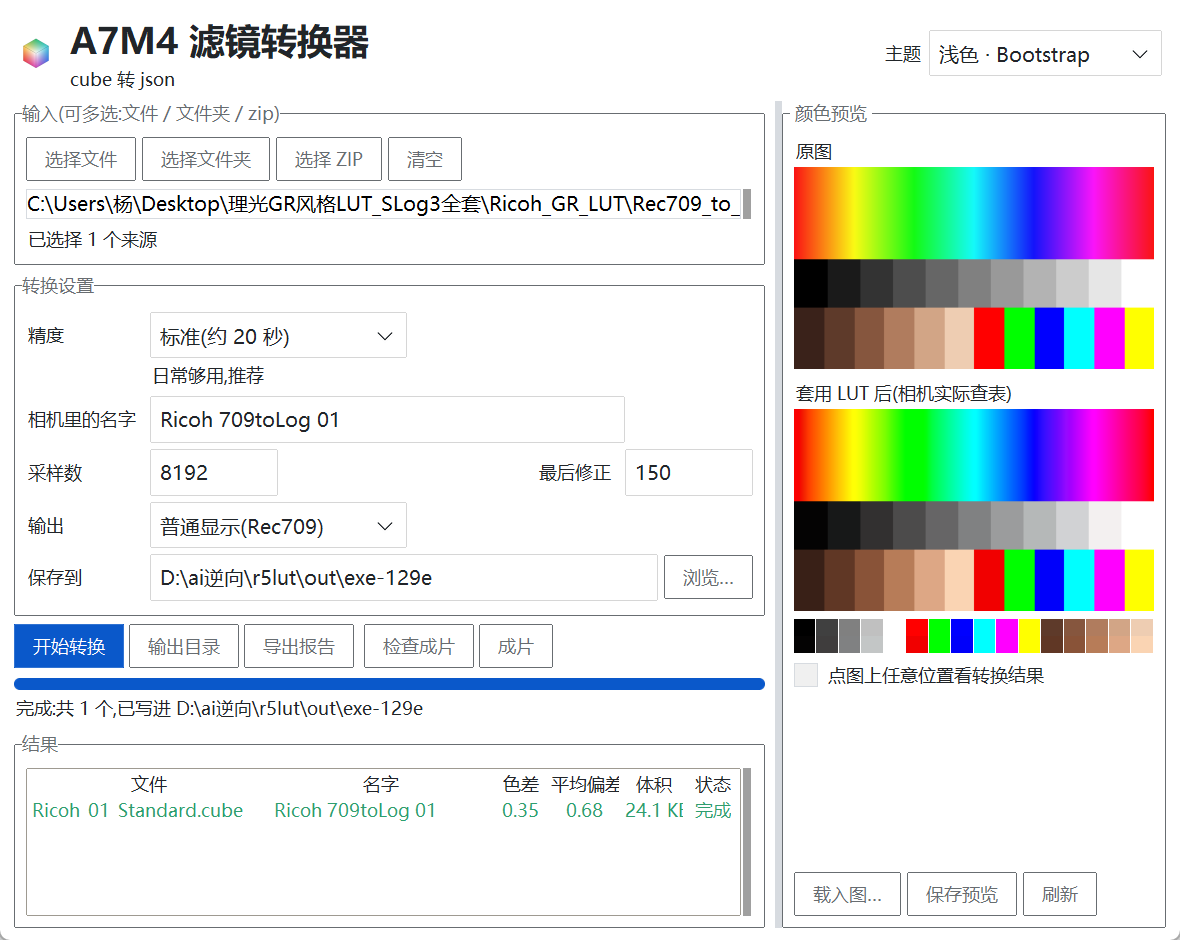
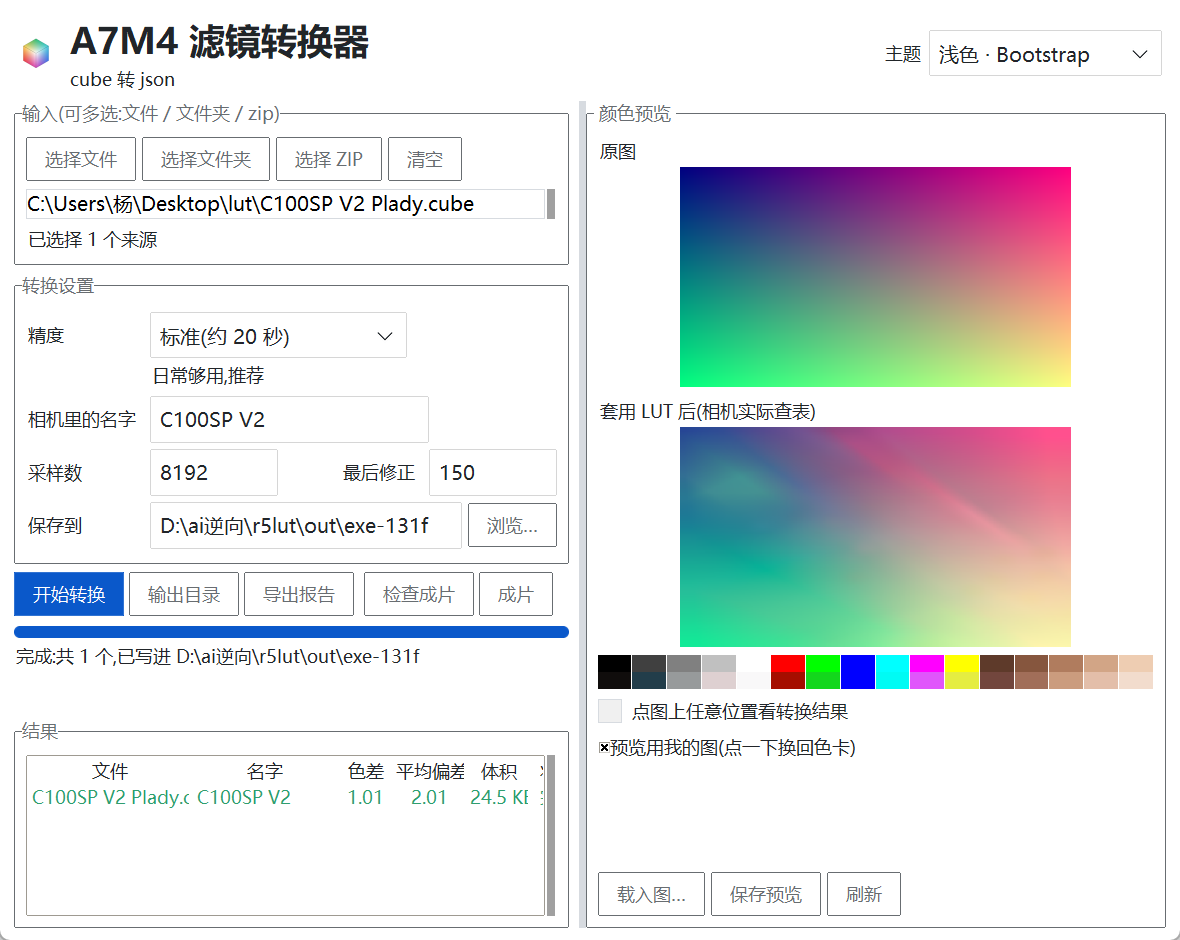
docs: 重写 README 为项目主页(快速开始/支持范围/精度/结构/致谢),补全品牌适配报告与最新界面图

Changed region(s): [[0.0, 0.0926, 0.9763, 0.9872], [0.122, 0.4319, 0.3051, 0.4628], [0.8847, 0.9255, 0.9153, 0.9564]]

diff --git a/README.md b/README.md
@@ -1,61 +1,160 @@
-# A7M4 滤镜转换器（cube → camera-look JSON）
+# A7M4 滤镜转换器
 
-把调色用的 `.cube` LUT，转成索尼 **A7M4** 机内「创意外观（camera-look）」认识的 JSON
-（`PRIVATE/M4ROOT/GENERAL/LUT/*.json`，机内 16 槽）。照片直出即可所见即所得，
-不用回到电脑上调色。
+把调色用的 `.cube` LUT 转成索尼 **A7M4** 机内「创意外观」认识的 JSON，拷进 SD 卡就能用 ——
+照片直出即是所见即所得，不用回电脑调色。
 
-> 适用范围：机内创意外观只作用在**照片 / 普通显示链路**。视频模式下的 PP 值
-> 不在这套机制里，所以它和 S-Log3 的高动态范围不兼容 —— 想要风格化就用普通模式
-> 直出（丢掉 log 的宽容度和后期空间），想要 log 就别套风格。
+[![version](https://img.shields.io/badge/版本-1.4.0-0a84ff)](https://github.com/Itinerary200/a7m4-lut/releases)
+[![license](https://img.shields.io/badge/许可-MIT-2f9e6f)](LICENSE)
+[![platform](https://img.shields.io/badge/平台-Windows%2010%2F11-555)](https://github.com/Itinerary200/a7m4-lut/releases)
+[![python](https://img.shields.io/badge/Python-3.10%2B-3776ab)](pyproject.toml)
 
 ![界面](docs/images/ui.png)
 
+---
+
+## 目录
+
+- [快速开始](#快速开始)
+- [它解决什么](#它解决什么)
+- [支持哪些 LUT](#支持哪些-lut)
+- [精度](#精度)
+- [命令行](#命令行)
+- [源码运行](#源码运行)
+- [项目结构](#项目结构)
+- [资产与许可](#资产与许可)
+- [致谢](#致谢)
+
+---
+
+## 快速开始
+
+1. 从 [Releases](https://github.com/Itinerary200/a7m4-lut/releases) 下载 `A7M4LUT.exe`，双击运行（免安装，不用装 Python）。
+2. 「选择文件」挑 `.cube`（支持多选 / 文件夹 / ZIP）；填一个相机里显示的名字；选保存位置，点 **开始转换**。
+3. 把输出文件夹里的 `PRIVATE/` 整个拷到 **SD 卡根目录**：
+
+   ```
+   SD 卡根目录/
+   └─ PRIVATE/M4ROOT/GENERAL/LUT/<名字>.json
+   ```
+
+4. 插卡 → 相机菜单里选这个外观（机内共 16 槽）。
+
+右侧「颜色预览」是 **原图 / 相机实际查表后的画面 / 色块对照**，点图上任意位置能读出
+「转换前 → 转换后」的 RGB。两栏中间的竖条可以拖动改宽，预览图会跟着放大。
+
+---
+
 ## 它解决什么
 
-A7M4 的机内外观不是 `.cube`，而是一个 `camera-look v2` 的 JSON：里面不是一张 LUT 表，
-而是 405 个整数参数（`parameters.grid`，3×5×9×9）。相机把这张网格烘焙成 129³ 的表，
-再用三线性插值出画面。所以「把 cube 塞进相机」不是格式转换，而是**反解**：
+A7M4 的机内外观不是 `.cube`，而是一个 `camera-look v2` 的 JSON —— 里面不是 LUT 表，
+而是 **405 个整数参数**（`parameters.grid`，3×5×9×9）。相机把这张网格烘焙成 129³ 的表，
+再用三线性插值出画面。
 
-> 找一组 405 个整数，让相机的烘焙 + 查表路径输出，尽量等于 cube 的结果。
+所以「把 cube 塞进相机」不是格式转换，而是**反解**：
 
-本工具就是做这个反解：用官方训练资产里冻结的响应模型（`models/`），把相机真实路径
-写成可微形式，再拟合 405 个参数。**优化目标就是相机真实的 129³ 表 + 三线性插值**，
-与官方 `bake + sample` 逐位一致（mae8 0.00）。
+> 找一组 405 个整数，让「相机的烘焙 + 查表」输出尽量等于 cube 的结果。
+
+本工具把相机这条真实路径写成可微形式，直接在冻结的官方响应模型上拟合这 405 个参数。
+优化目标就是相机真实的 129³ 表 + 三线性插值，与官方 `bake + sample` 逐位一致（mae8 0.00）。
+
+> **适用范围**：机内创意外观只作用在**照片 / 普通显示链路**。视频模式的 PP 值不在
+> 这套机制里，因此它与 S-Log3 的高动态范围不兼容 —— 想要风格化就用普通模式直出，
+> 想要 log 就别套风格。
+
+---
+
+## 支持哪些 LUT
+
+### 输入：各家 log 曲线自动适配
+
+不同品牌的 LUT 是按**自家 log 曲线**编码输入的，同一条曲线套错，画面立刻偏色。
+工具内置 16 条曲线，并会自己判断这份 LUT 属于哪一种：
+
+| 品牌 | 曲线 |
+| --- | --- |
+| 索尼 | S-Log3、S-Log2 |
+| 佳能 | Canon Log2、Canon Log3 |
+| 尼康 | N-Log |
+| 松下 | V-Log |
+| 富士 | F-Log、F-Log2、F-Log2C |
+| ARRI | LogC3、LogC4 |
+| 大疆 | D-Log、D-Log2、D-Log M |
+| 影石 | I-Log |
+| 徕卡 | L-Log |
+
+判断方式有三层，逐层兜底：
+
+1. 看文件名与 LUT 的 `TITLE` 关键词（`N-Log 转 Rec.709` 这种名字里带 Rec.709 的，
+   也能认出输入其实是 N-Log）；
+2. 从 **LUT 自身**反解曲线：灰阶从 0 走到 1，二分找「输出正好等于这个灰」的码值，
+   残差 < 0.03 就采信（尼康实测 0.0010、索尼 LC-709 0.0003、佳能 CMTPQ 0.0000）；
+3. 两条曲线各算一版，取色差更小的那版。
+
+### 输出：普通显示 / PQ / HLG 都能算对
+
+目标域是 HDR 的（佳能 CMTPQ、ARRI St2084、Insta360 HLG 等）时，按 ST.2084 与 HLG
+标准公式解码后再比对，不会被当成普通显示值算错。
+
+### 风格 LUT
+
+柯达 / 富士胶片 / 其他胶片 / 理光 GR / 哈苏 HNCS 这类纯风格 LUT 走显示域，
+无需曲线，直接拟合。黑白 LUT 会自动切到 ACROS 起点（中性起点拟不出整块去色）。
+
+---
 
 ## 精度
 
-| 组 | 数量 | ΔE00 中位 | 最好 | 最差 |
-|---|---|---|---|---|
-| 彩色 look（输出普通显示） | 71 | **1.32** | 0.56 | — |
-| 理光 GR 全套 Rec709 | 13 | **0.57** | 0.35 | 1.17 |
-| 理光 GR 全套 SLog3 输入 LUT | 13 | **1.21** | 0.30 | 1.64 |
-| 索尼官方 SLog3 四款 | 4 | 1.26 | 1.11 | 1.53 |
+76 个抽样 LUT（9 个品牌 + 5 个胶片风格组，覆盖 21 个规格），**转化率 100%**：
 
-黑白/低彩度 LUT 会自动换成 ACROS 起点（中性起点拟不出整块去色）。
+| 指标 | 数值 |
+| --- | --- |
+| 色差 ΔE00 中位 | **1.51** |
+| 均值 / 最好 | 1.48 / **0.41** |
+| 达标（ΔE00 ≤ 2.40） | **69/76 = 90.8%** |
+| 单张耗时 | 13 秒（CPU，无需显卡） |
 
-## 怎么用
+几个代表性规格：
 
-### 图形界面
+| 平台 / 规格 | 达标 | 色差中位 | 最差 |
+| --- | --- | --- | --- |
+| 哈苏 HNCS（显示域） | 4/4 | 0.46 | 0.50 |
+| 理光 GR（显示域） | 4/4 | 0.50 | 0.58 |
+| 松下 V-Log | 1/1 | 0.59 | 0.59 |
+| 大疆 D-Log | 4/4 | 0.82 | 1.30 |
+| ARRI LogC4 | 4/4 | 1.29 | 1.37 |
+| 佳能 Canon Log2 | 4/4 | 1.39 | 2.17 |
+| 富士 F-Log | 4/4 | 1.70 | 1.94 |
+| 索尼 S-Log3 S-Gamut3.Cine | 4/4 | 1.86 | 2.33 |
+| 尼康 N-Log 转 Rec.709 | 0/4 | 3.26 | 3.56 |
+| 索尼 S-Log2 S-Gamut | 2/4 | 2.12 | 3.04 |
 
-下载 Release 里的 `A7M4LUT.exe`，双击：
+> **关于没达标的 7 个**：`N-Log → Rec.709`、`S-Log2 → Rec.709` 这类是**宽色域转窄色域**，
+> 本身要求大幅提饱和。实测目标彩度 141、405 参数网格能给出的上限约 125，网格里有
+> 300/1215 个格子已经顶到 ±64 边界；加步数、加采样、换起点都不再改善。这是这块参数
+> 网格的表达力上限，不是调参没调好。
 
-1. 选 `.cube`（支持多文件 / 文件夹 / ZIP）
-2. 填相机里显示的名字
-3. 选保存位置，点「开始转换」
-4. 把输出文件夹里的 `PRIVATE/` 整个拷到 SD 卡根目录，插卡即认
+全量明细见 [docs/全品牌适配.md](docs/全品牌适配.md)：76 个样本逐条色差、按规格达标率、最差 12 个清单。
 
-右侧「颜色预览」是原图 / 相机实际查表后的画面 / 色块对照，点图能读任意点的转换结果。
-中间那条缝可以拖动，预览栏能拉宽。
+---
 
-### 命令行
+## 命令行
 
 ```bat
+:: 单个
 A7M4LUT.exe m4 --cube X.cube --name "我的外观" -o out\look
-:: 整批
+
+:: 整批（一个目录里的所有 cube）
 A7M4LUT.exe m4-batch --lut-dir .\cubes -o out\batch --table-steps 150
+
+:: 指定输入域（默认自动判断）
+A7M4LUT.exe m4 --cube nikon.cube --name "N-Log 版" --transfer nlog -o out\nikon
 ```
 
-### 源码
+`--transfer` 可选 `auto`（默认）、`display`，或上表里的任一曲线名。
+
+---
+
+## 源码运行
 
 ```bat
 py -3 -m pip install numpy torch ttkbootstrap pillow
@@ -63,40 +162,80 @@ set PYTHONPATH=%CD%\src
 py -3 -m r5lut.m4gui
 ```
 
-需要 `models/` 与 `charts/`（官方 M4 训练资产，不随仓库分发，见下文「资产」）。
+需要 `models/` 与 `charts/`（索尼官方 M4 训练资产，不随仓库分发，见下节）。
+也可以在界面「显示更多设置 → 模型数据」里指向本地目录。
 
-## 输出
+打包成单文件 exe：
 
-相机直接出**普通显示（Rec709）**画面，和 cube 在电脑上看到的一致。
+```bat
+py -3 -m PyInstaller build\A7M4.spec --noconfirm --distpath dist --workpath build
+```
 
-拟合误差在显示域上算，报出来的数字就是肉眼看到的差别。
+---
 
-## 资产
+## 项目结构
 
-`models/`、`charts/`、`native16/` 来自索尼官方的 M4 训练资产包，
-**版权归索尼，不在本仓库分发**。可从
-[M4 LUT training assets](https://github.com/Erlla/sony-a7m4-custom-firmware) 获取，
-或用界面「显示更多设置 → 模型数据」指向本地目录。
+```
+src/r5lut/
+  m4gui.py      界面(ttkbootstrap)+ 转换流程 + 颜色预览
+  m4fit.py      405 参数拟合:相机 129³ 表路径的可微实现、拟合、抛光
+  transfer.py   log 曲线库接口:识别 / 换算 / 自校准(solve) / PQ-HLG 解码
+  curves.py     16 条曲线(从各家官方转换 LUT 反解得到)
+  m4json.py     camera-look v2 的构建、封签、写出
+  preview.py    cube 解析(含轴序自动纠正)、取样、色卡、PNG 编解码
+  cli.py        命令行入口
+vendor/m4/      camera-look v2 编解码与响应模型(上游逐字副本)
+engine/         A7R V 侧训练引擎(AGPL-3.0,见许可)
+docs/           格式规范、使用说明、训练方法
+```
 
-## 格式规范
+---
 
-- [docs/A7M4格式.md](docs/A7M4格式.md) —— camera-look v2 字段、哈希、编码规则
-- [docs/JSON格式说明.md](docs/JSON格式说明.md) —— A7R V 固件 JSON（另一个相机，别混）
-- [docs/使用说明.md](docs/使用说明.md) —— 界面逐步说明
+## 资产与许可
 
-## 许可
+- 本仓库**代码**：MIT，见 [LICENSE](LICENSE)。
+- `engine/`（A7R V 侧训练引擎）：[Hearts-Ace/sony-r5-colorlab](https://github.com/Hearts-Ace/sony-r5-colorlab)
+  的 vendored 副本，**AGPL-3.0**，见 [engine/VENDORED-NOTES.md](engine/VENDORED-NOTES.md)。
+- `vendor/m4/`：来自 [Erlla/sony-a7m4-custom-firmware](https://github.com/Erlla/sony-a7m4-custom-firmware)，
+  见 [vendor/m4/PROVENANCE.md](vendor/m4/PROVENANCE.md)。
+- `models/`、`charts/`、`native16/`：索尼官方训练资产，**版权归索尼，不在本仓库分发**。
+- 各品牌 LUT 的版权归各自厂商 / 作者，本仓库不附带任何 LUT 文件。
 
-本仓库代码 MIT，见 [LICENSE](LICENSE)。
-`engine/`（A7R V 侧训练引擎）是
-[Hearts-Ace/sony-r5-colorlab](https://github.com/Hearts-Ace/sony-r5-colorlab) 的 vendored
-副本，**AGPL-3.0**，见 [engine/VENDORED-NOTES.md](engine/VENDORED-NOTES.md) 与
-[THIRD_PARTY.md](THIRD_PARTY.md)。
+详见 [THIRD_PARTY.md](THIRD_PARTY.md)。
 
-引用到的上游：
+---
 
-- [Erlla/sony-a7m4-custom-firmware](https://github.com/Erlla/sony-a7m4-custom-firmware) —— camera-look v2 编解码与响应模型
-- [Hearts-Ace/sony-a7r5-custom-firmware](https://github.com/Hearts-Ace/sony-a7r5-custom-firmware) / [sony-r5-colorlab](https://github.com/Hearts-Ace/sony-r5-colorlab) —— A7R V 侧方法与训练引擎（AGPL-3.0）
+## 致谢
+
+这个项目能成立，靠的是下面这些公开成果，特此致谢：
+
+### 格式与算法
+
+- **[Erlla/sony-a7m4-custom-firmware](https://github.com/Erlla/sony-a7m4-custom-firmware)**
+  —— camera-look v2 的 JSON 结构、`payload_sha256` 封签规则、原生编解码器，以及
+  `response_network` / `pixel_bridge` / `host_grid` 这套相机响应模型。
+  没有它，405 参数的反解无从下手。
+- **[Hearts-Ace/sony-r5-colorlab](https://github.com/Hearts-Ace/sony-r5-colorlab)** 与
+  **[Hearts-Ace/sony-a7r5-custom-firmware](https://github.com/Hearts-Ace/sony-a7r5-custom-firmware)**
+  —— A7R V 侧的训练方法、129³ 表烘焙与三线性插值路径、色卡与评估口径（`engine/`，AGPL-3.0）。
+
+### 工具与依赖
+
+- [PyTorch](https://pytorch.org/) —— 拟合与自动微分
+- [NumPy](https://numpy.org/)、[Pillow](https://python-pillow.org/)
+- [ttkbootstrap](https://github.com/israel-dryer/ttkbootstrap) —— 界面主题
+- [PyInstaller](https://pyinstaller.org/) —— 单文件打包
+- [Ruff](https://github.com/astral-sh/ruff)、[mypy](https://mypy-lang.org/)、[pytest](https://pytest.org/) —— 工程质量门禁
+
+### 曲线与素材
+
+- 各家 `log → 显示` 官方转换 LUT 的提供方（索尼 / 佳能 / 尼康 / 松下 / 富士 / ARRI /
+  大疆 / 影石 / 徕卡）—— 16 条曲线是从这些官方 LUT 的灰阶反解出来的。
+- [colour-science](https://www.colour-science.org/) 与 CIE 的 ΔE2000 / Lab 公开定义。
+
+---
 
 ## 免责
 
-非索尼官方工具。改机内外观属于自行承担风险的操作，请先备份相机设置、保留原始 LUT。
+非索尼官方工具，与索尼公司无关。修改机内外观属于自行承担风险的操作，请先备份相机
+设置、保留原始 LUT 与原始 JSON。商标归各自所有者。

diff --git a/docs/全品牌适配.md b/docs/全品牌适配.md
@@ -1,0 +1,51 @@
+# 全品牌 LUT 适配研究
+
+- 样本 LUT:**76** 个
+- 成功转换:**76** 个(**100.0%**)
+- 色差 ΔE00:中位 **1.51**、均值 **1.48**、最差 **3.56**、最好 **0.41**
+- 达标(ΔE00 ≤ 2.40):**69/76** 个(**90.8%**)
+- 单张平均耗时 13.1 秒
+
+## 按平台 / 规格
+
+| 平台 | 相机 | 规格 | 输入域 | 输出域 | 成功/样本 | 达标 | 色差中位 | 色差最差 | 平均偏差中位 |
+| --- | --- | --- | --- | --- | --- | --- | --- | --- | --- |
+| 01_柯达胶片 | 风格 LUT | (显示域) | display | display | 4/4 | 4/4 | 1.85 | 1.97 | 3.53 |
+| 02_富士胶片 | 风格 LUT | (显示域) | display | display | 4/4 | 4/4 | 1.87 | 1.93 | 3.30 |
+| 03_其他胶片 | 风格 LUT | (显示域) | display | display | 4/4 | 4/4 | 0.73 | 1.91 | 1.36 |
+| 04_理光GR近似版 | 风格 LUT | (显示域) | display | display | 4/4 | 4/4 | 0.50 | 0.58 | 0.88 |
+| 05_哈苏HNCS近似版 | 风格 LUT | (显示域) | display | display | 4/4 | 4/4 | 0.46 | 0.50 | 0.75 |
+| ARRI | ALEXA 35(LogC3) | LogC3 → Rec709 | logc3 | display | 2/2 | 2/2 | 1.12 | 1.56 | 2.42 |
+| ARRI | ALEXA 35(LogC4) | LogC4 | logc4 | display | 4/4 | 4/4 | 1.29 | 1.37 | 2.02 |
+| 佳能 | EOS(33格) | Canon Log2 | clog2 | display, hlg, pq | 4/4 | 4/4 | 1.39 | 2.17 | 1.65 |
+| 佳能 | EOS(33格) | Canon Log3 | clog3 | display, hlg, pq | 4/4 | 4/4 | 1.77 | 1.87 | 3.71 |
+| 大疆 | Osmo Pocket 4P | D-Log | dlog | display | 4/4 | 4/4 | 0.82 | 1.30 | 1.93 |
+| 大疆 | Osmo Pocket 4P | D-Log2 | dlog2 | display | 4/4 | 4/4 | 1.51 | 1.56 | 3.12 |
+| 富士 | X-H2 | F-Log | flog | display | 4/4 | 4/4 | 1.70 | 1.94 | 3.67 |
+| 富士 | X-H2 | F-Log2 | flog2 | clog2, display | 4/4 | 4/4 | 1.77 | 2.15 | 4.12 |
+| 富士 | X-H2 | F-Log2C | flog2c | clog2, display | 4/4 | 3/4 | 1.63 | 2.46 | 3.86 |
+| 尼康 | Z 系列(N-Log) | N-Log 转 Rec.709 | nlog | display | 4/4 | 0/4 | 3.26 | 3.56 | 8.63 |
+| 影石 | Insta360 X6 | I-Log 转 Rec709 | ilog | hlg, pq | 4/4 | 4/4 | 1.28 | 1.59 | 1.94 |
+| 徕卡 | SL2-S | 官方 LUT | display | display | 4/4 | 4/4 | 1.37 | 2.05 | 3.02 |
+| 松下 | S1H / V-Log | S1H RAW 转 V-Log | vlog | clog3 | 1/1 | 1/1 | 1.50 | 1.50 | 3.39 |
+| 松下 | S1H / V-Log | V-Log 转 V-Log709 | vlog | display | 1/1 | 1/1 | 0.59 | 0.59 | 0.97 |
+| 索尼 | 索尼 | S-Log2 S-Gamut | slog2 | display, slog2 | 4/4 | 2/4 | 2.12 | 3.04 | 4.86 |
+| 索尼 | 索尼 | S-Log3 S-Gamut3.Cine | slog3 | display, slog2 | 4/4 | 4/4 | 1.86 | 2.33 | 2.78 |
+
+## 最差的 12 个
+
+| 文件 | 平台 | 规格 | 输入域 | 曲线 | 色差 | 平均偏差 | 耗时 |
+| --- | --- | --- | --- | --- | --- | --- | --- |
+| 00_官方原厂\尼康\N-Log 转 Rec.709\尼康 Z 6II N-Log 转 Rec.709 33格 V01.00.cube | 尼康 | N-Log 转 Rec.709 | nlog |  | 3.56 | 9.13 | 32s |
+| 00_官方原厂\尼康\N-Log 转 Rec.709\尼康 D780 N-Log 转 Rec.709 33格 V01.00.cube | 尼康 | N-Log 转 Rec.709 | nlog |  | 3.56 | 9.09 | 32s |
+| 00_官方原厂\索尼\S-Log2 S-Gamut\索尼 S-Log2 S-Gamut 转 LC-709TypeA 33格.cube | 索尼 | S-Log2 S-Gamut | slog2 |  | 3.04 | 7.61 | 32s |
+| 00_官方原厂\索尼\S-Log2 S-Gamut\索尼 S-Log2 S-Gamut 转 SLog2-709 33格.cube | 索尼 | S-Log2 S-Gamut | slog2 |  | 2.98 | 7.12 | 35s |
+| 00_官方原厂\尼康\N-Log 转 Rec.709\尼康 Z 7 N-Log 转 Rec.709 33格 V01.00.cube | 尼康 | N-Log 转 Rec.709 | nlog |  | 2.96 | 8.16 | 33s |
+| 00_官方原厂\尼康\N-Log 转 Rec.709\尼康 Z 6 N-Log 转 Rec.709 33格 V01.00.cube | 尼康 | N-Log 转 Rec.709 | nlog |  | 2.96 | 8.15 | 32s |
+| 00_官方原厂\富士\富士X-H2\F-Log2C\富士X-H2_F-Log2C_F色域C_转_ETERNA_BT709_33格_v1.00.cube | 富士 | F-Log2C | flog2c |  | 2.46 | 5.13 | 17s |
+| 00_官方原厂\索尼\S-Log3 S-Gamut3.Cine\索尼 S-Log3 S-Gamut3.Cine 转 Cine+709 65格.cube | 索尼 | S-Log3 S-Gamut3.Cine | slog3 |  | 2.33 | 3.65 | 19s |
+| 00_官方原厂\索尼\S-Log3 S-Gamut3.Cine\索尼 S-Log3 S-Gamut3.Cine 转 LC-709 TypeA 33格.cube | 索尼 | S-Log3 S-Gamut3.Cine | slog3 |  | 2.31 | 4.98 | 16s |
+| 00_官方原厂\佳能\Canon Log 2-3 转 CMT709-DCI-HLG-PQ\33格\佳能 Canon Log2 转 CMTHLG 33格 版本1.0.cube | 佳能 | Canon Log2 | clog2 |  | 2.17 | 3.49 | 16s |
+| 00_官方原厂\富士\富士X-H2\F-Log2\富士X-H2_F-Log2_F色域_转_ETERNA_BT709_33格_v1.00.cube | 富士 | F-Log2 | flog2 |  | 2.15 | 4.13 | 16s |
+| 00_官方原厂\徕卡\徕卡SL2-S\官方LUT原包\徕卡Natural自然_Rec2020.cube | 徕卡 | 官方 LUT | display |  | 2.05 | 4.30 | 12s |
+
